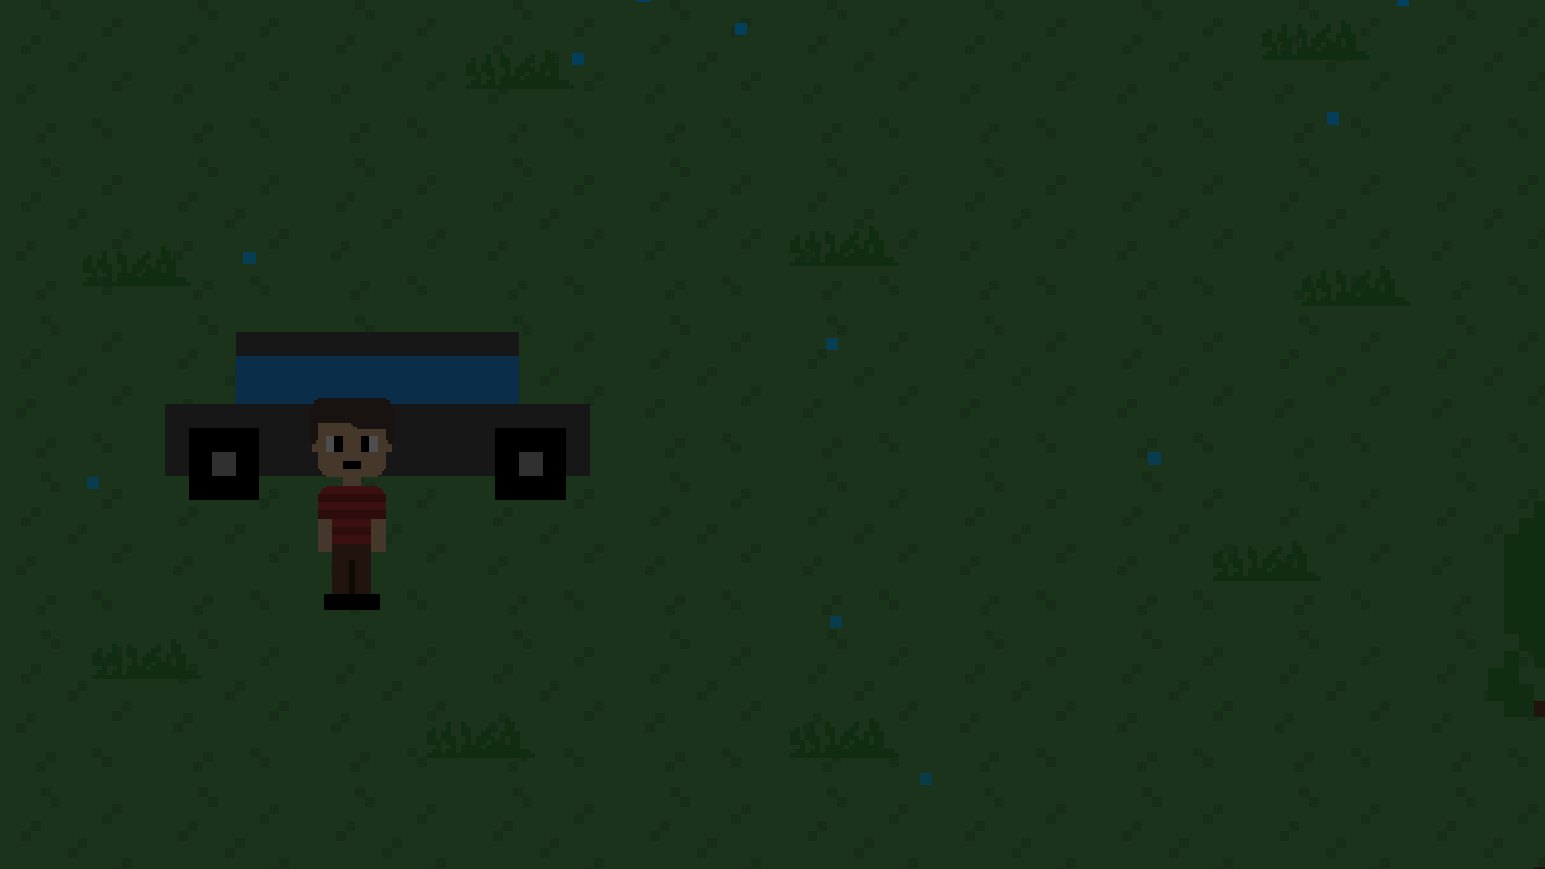
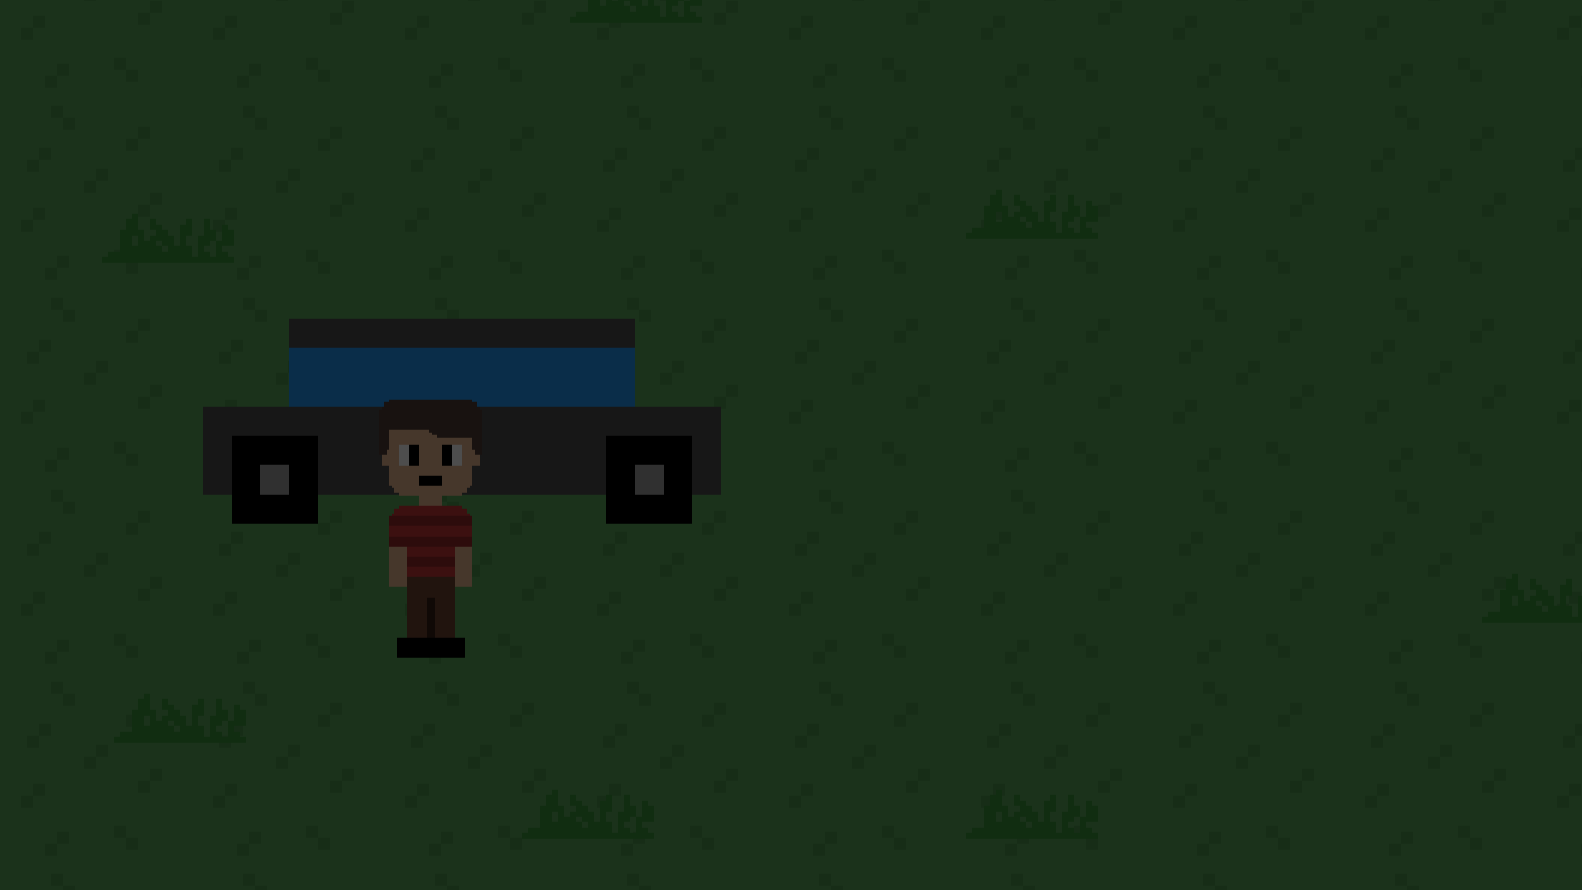
h

diff --git a/index.html b/index.html
@@ -75,6 +75,10 @@
                     <a href="images/floresta1.png" class="gallery-item">
                         <img src="images/floresta1.png" alt="Screenshot do jogo Savamption na floresta com um carro" class="pixel-art" />
                     </a>
+                    <!-- IMAGEM ADICIONADA -->
+                    <a href="images/floresta3.png" class="gallery-item">
+                        <img src="images/floresta3.png" alt="Outra screenshot do jogo Savamption na floresta" class="pixel-art" />
+                    </a>
                 </div>
             </div>
         </section>

diff --git a/style.css b/style.css
@@ -143,7 +143,8 @@ nav {
 ---------------------------------------------- */
 #hero {
     height: 100vh;
-    background: url('images/floresta2.png') no-repeat center center/cover;
+    /* CORREÇÃO AQUI: Troquei floresta2.png por floresta1.png */
+    background: url('images/floresta1.png') no-repeat center center/cover;
     position: relative;
     display: flex;
     align-items: center;
